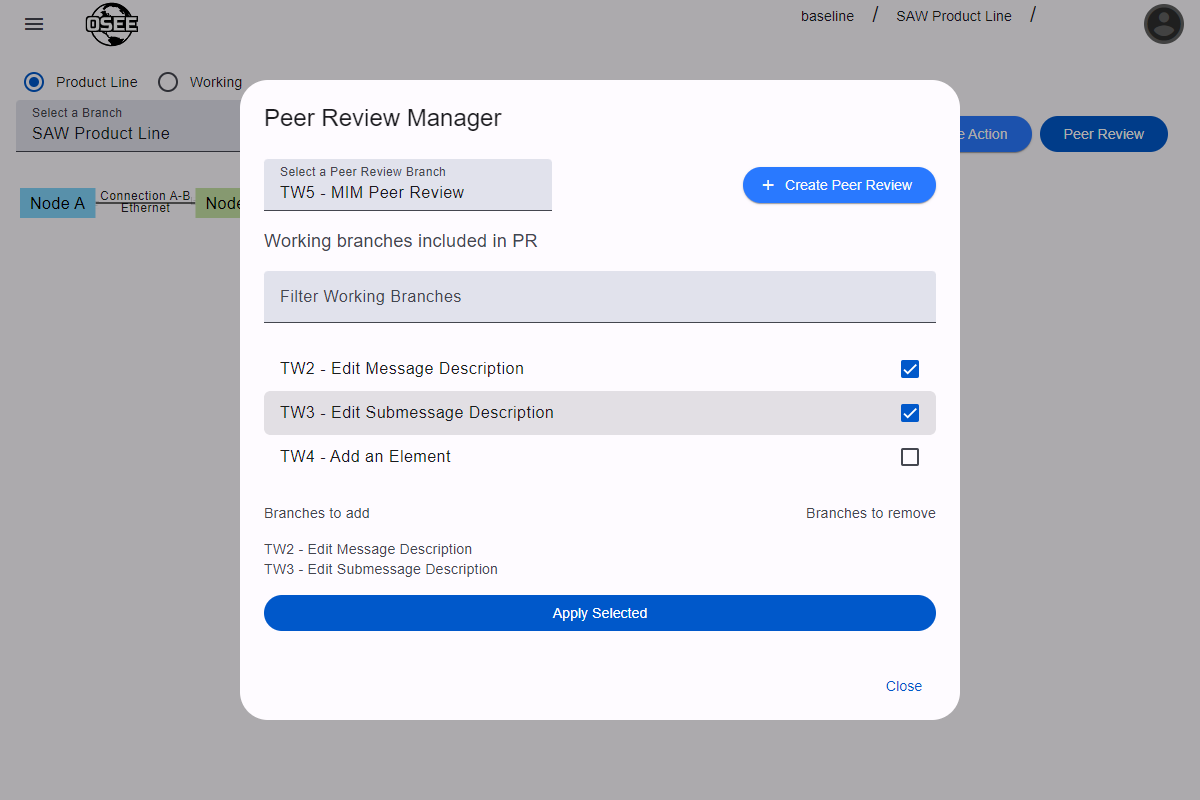
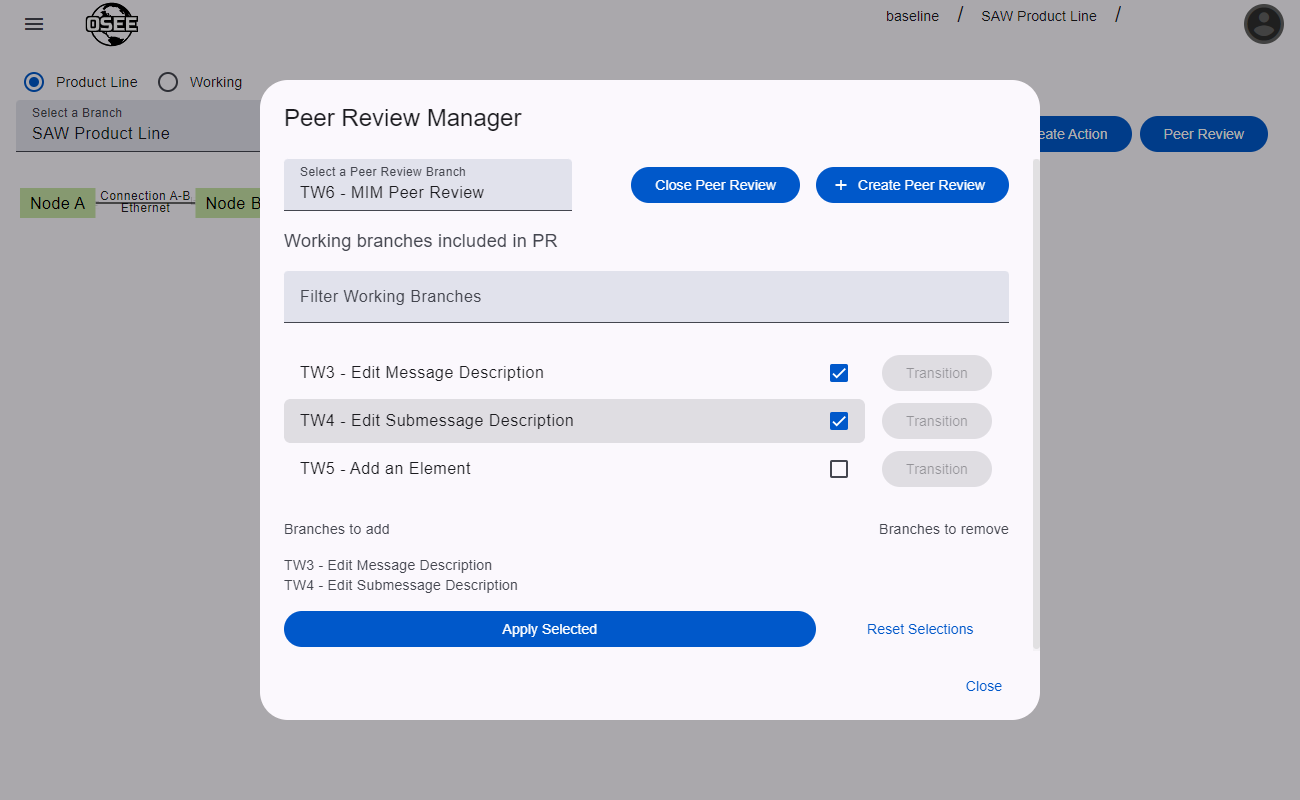
feature[TW27609]: Update MIM peer review docs

diff --git a/web/apps/osee/playwright/specs/mim/tests/peer-review.e2e-spec.ts b/web/apps/osee/playwright/specs/mim/tests/peer-review.e2e-spec.ts
@@ -110,7 +110,7 @@ test('create working branches', async ({ page }) => {
 });
 
 test('peer review branch', async ({ page }) => {
-	await page.setViewportSize({ width: 1200, height: 800 });
+	await page.setViewportSize({ width: 1300, height: 800 });
 	await page.goto('http://localhost:4200/ple');
 	await page.getByRole('link', { name: 'MIM' }).click();
 	await page.getByRole('link', { name: 'Connections' }).click();
@@ -186,5 +186,68 @@ test('peer review branch', async ({ page }) => {
 	});
 
 	await page.getByRole('button', { name: 'Apply Selected' }).click();
-	await page.getByRole('button', { name: 'Close' }).click();
+	await page.getByTestId('pr-dialog-close').click();
+});
+
+test('commit branches', async ({ page }) => {
+	await page.setViewportSize({ width: 1300, height: 800 });
+	await page.goto('http://localhost:4200/ple');
+	await page.getByRole('link', { name: 'MIM' }).click();
+	await page.getByRole('link', { name: 'Connections' }).click();
+	await page.getByLabel('Product Line').check();
+	await page.getByText('Select a Branch').click();
+	await page.getByText('SAW Product Line').click();
+
+	await page.getByRole('button', { name: 'Peer Review' }).click();
+
+	await page.getByText('Select a Peer Review Branch').click();
+	await page.getByText('MIM Peer Review').click({ timeout: 60000 });
+	await page
+		.getByRole('listbox')
+		.locator('div')
+		.filter({ hasText: 'Edit Message' })
+		.getByRole('button')
+		.click();
+	await expect(page.getByText('In Work')).toBeVisible();
+	await page
+		.getByRole('listbox')
+		.locator('div')
+		.filter({ hasText: 'Edit Message' })
+		.getByRole('button')
+		.click();
+	await page.getByRole('menuitem', { name: 'Transition to Review' }).click();
+	await page.getByRole('button', { name: 'Review', exact: true }).click();
+	await page.getByRole('menuitem', { name: 'Approve Transition to' }).click();
+	await page.getByRole('button', { name: 'Review', exact: true }).click();
+	await page.getByRole('menuitem', { name: 'Commit Branch' }).click();
+
+	await expect(
+		page.getByText('Branches included in this PR have been committed')
+	).toBeVisible();
+
+	await page.screenshot({
+		animations: 'disabled',
+		path: 'screenshots/peer-review/peer-review-committed.png',
+	});
+
+	await page
+		.getByRole('listbox')
+		.locator('div')
+		.filter({ hasText: 'Add an Element' })
+		.getByRole('button')
+		.click();
+	await expect(page.getByText('In Work')).toBeVisible();
+	await page
+		.getByRole('listbox')
+		.locator('div')
+		.filter({ hasText: 'Add an Element' })
+		.getByRole('button')
+		.click();
+	await page.getByRole('menuitem', { name: 'Transition to Review' }).click();
+	await page.getByRole('button', { name: 'Review', exact: true }).click();
+	await page.getByRole('menuitem', { name: 'Approve Transition to' }).click();
+	await page.getByRole('button', { name: 'Review', exact: true }).click();
+	await page.getByRole('menuitem', { name: 'Commit Branch' }).click();
+	await page.getByRole('button', { name: 'Close Peer Review' }).click();
+	await page.getByRole('button', { name: 'Ok' }).click();
 });

diff --git a/web/apps/docs/src/content/docs/mim/guides/peer-review.md b/web/apps/docs/src/content/docs/mim/guides/peer-review.md
@@ -29,6 +29,20 @@ Now, if we uncheck `TW3` to remove it from the PR, and check `TW4` to add it, we
 
 Applying these new selections will remove the changes from `TW3` and apply the changes from `TW4`. Now the peer review branch contains the changes from `TW2` and `TW4`.
 
+## Commit Applied Branches
+
+After the peer review is complete and all changes have been reviewed, the individual working branches should be committed to the baseline branch.
+
+Next to each branch in the list is a `Transition` button. Clicking that will load the action state button, allowing the action to be transitioned and the branch to be committed.
+
+Once an applied branch has been committed, working branches can no longer be added or removed from the peer review branch.
+
+![Peer Review dialog after committing TW3](../../../../assets/images/mim/peer-review/peer-review-committed.png)
+
+## Closing the Peer Review
+
+Once all of the working branches have been committed, the `Close Peer Review` button will become enabled. Clicking this and confirming will archive the peer review branch, and it will no longer appear in the branch list.
+
 ## Additional Notes
 
 - If additional changes are made to branches that have already been applied, those changes will not automatically apply to the peer review branch. You will need to go to the Peer Review Manager, uncheck the branches with the new changes, apply, re-check the branches with changes, and re-apply.

diff --git a/web/apps/osee/src/assets/help/mim/peer-review.md b/web/apps/osee/src/assets/help/mim/peer-review.md
@@ -26,6 +26,20 @@ Now, if we uncheck `TW3` to remove it from the PR, and check `TW4` to add it, we
 
 Applying these new selections will remove the changes from `TW3` and apply the changes from `TW4`. Now the peer review branch contains the changes from `TW2` and `TW4`.
 
+## Commit Applied Branches
+
+After the peer review is complete and all changes have been reviewed, the individual working branches should be committed to the baseline branch.
+
+Next to each branch in the list is a `Transition` button. Clicking that will load the action state button, allowing the action to be transitioned and the branch to be committed.
+
+Once an applied branch has been committed, working branches can no longer be added or removed from the peer review branch.
+
+![Peer Review dialog after committing TW3](assets/images/mim/peer-review/peer-review-committed.png)
+
+## Closing the Peer Review
+
+Once all of the working branches have been committed, the `Close Peer Review` button will become enabled. Clicking this and confirming will archive the peer review branch, and it will no longer appear in the branch list.
+
 ## Additional Notes
 
 -   If additional changes are made to branches that have already been applied, those changes will not automatically apply to the peer review branch. You will need to go to the Peer Review Manager, uncheck the branches with the new changes, apply, re-check the branches with changes, and re-apply.
